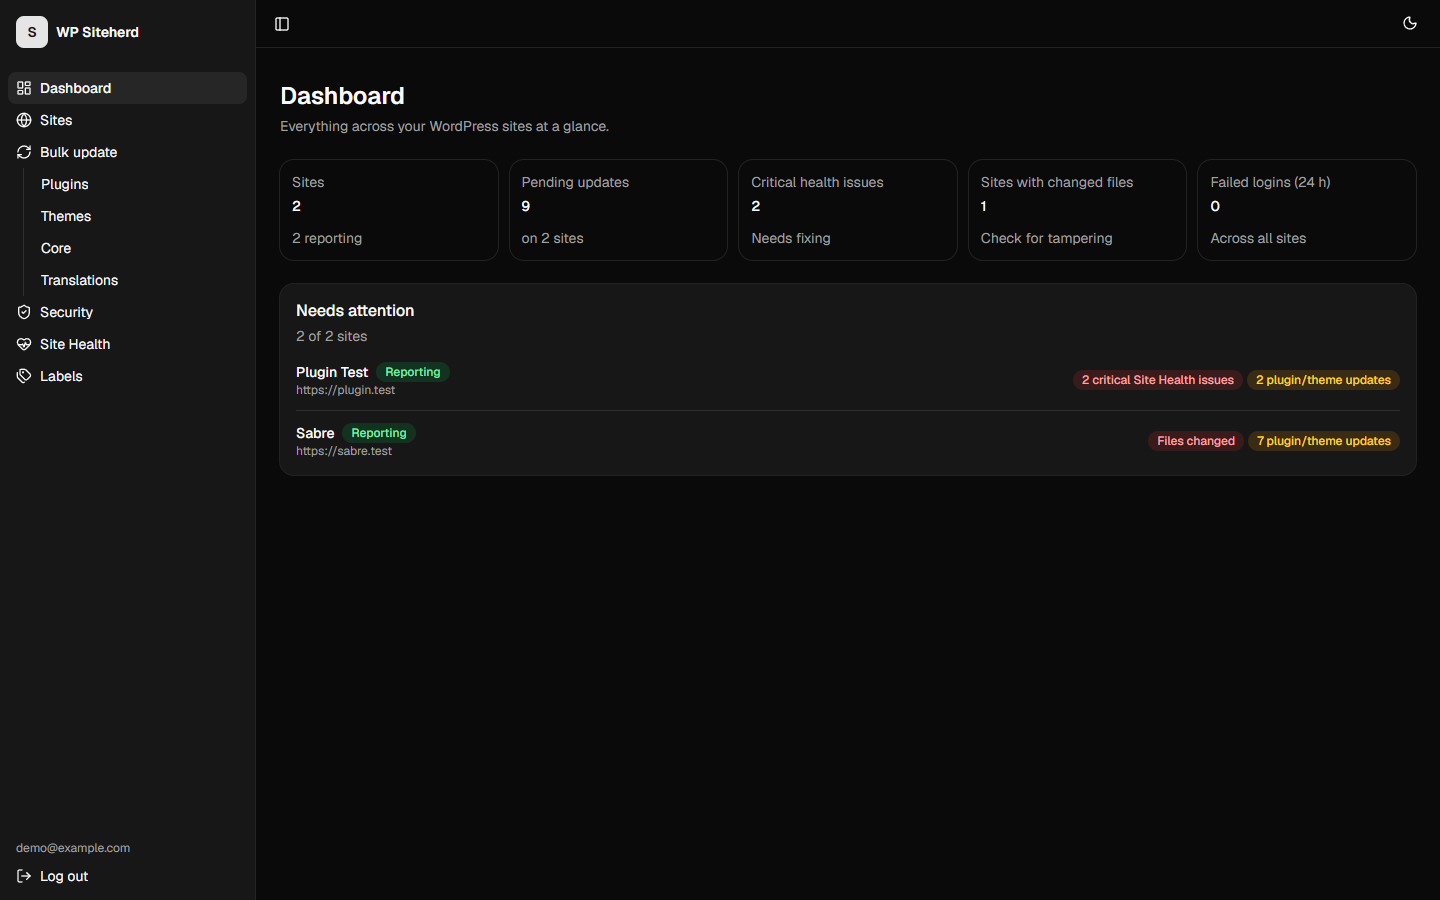
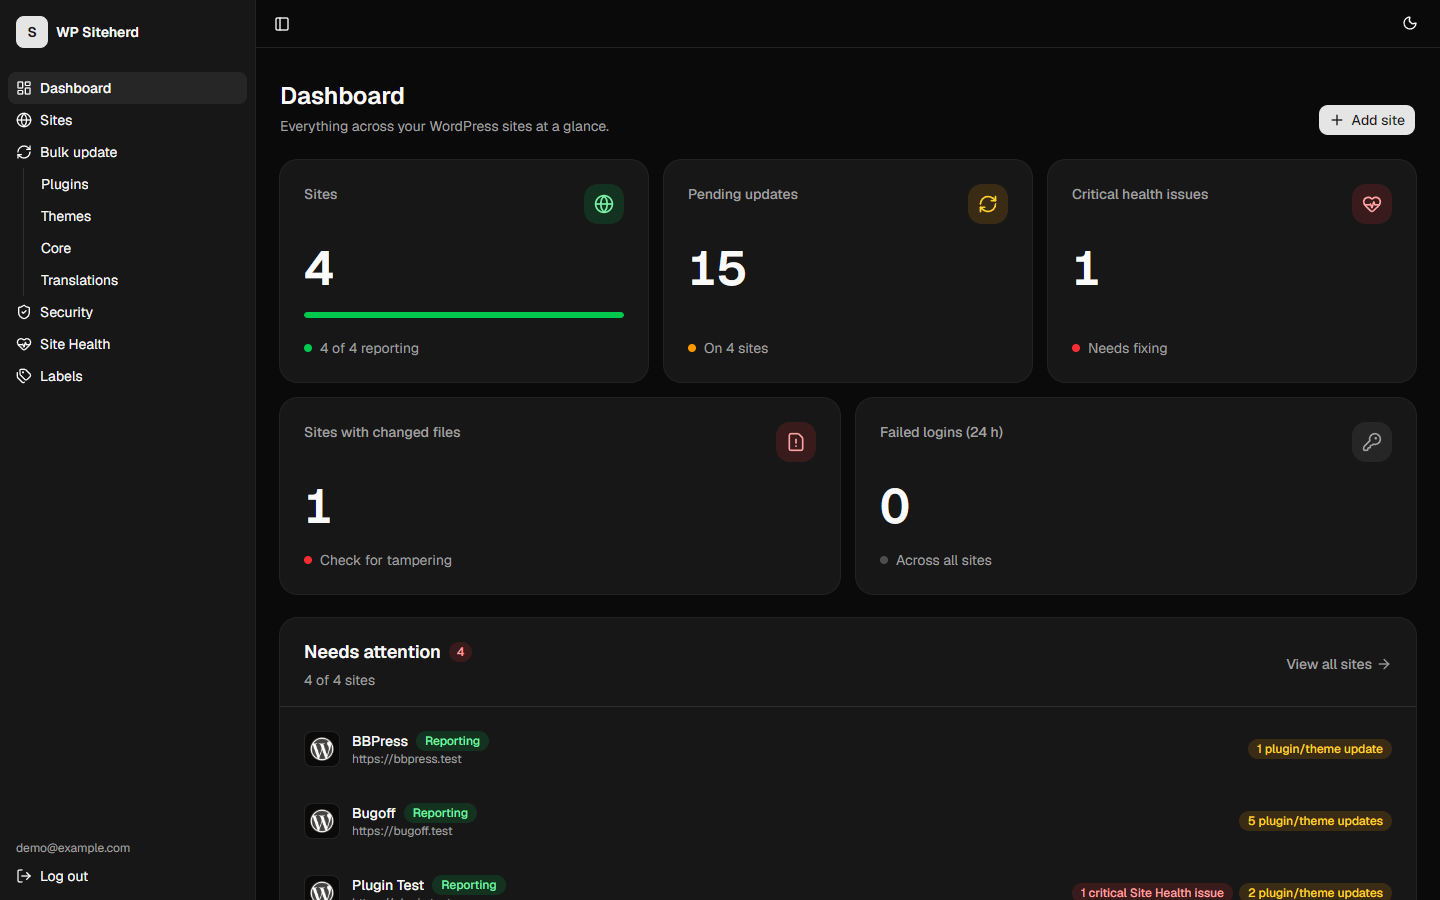
Redesign dashboard: larger stat cards with status colors, richer attention list

diff --git a/src/app/(app)/page.tsx b/src/app/(app)/page.tsx
@@ -1,37 +1,133 @@
+import { ArrowRight, CircleCheck, FileWarning, Globe, HeartPulse, KeyRound, Plus, RefreshCw } from "lucide-react";
+import type { LucideIcon } from "lucide-react";
 import Link from "next/link";
 import { Suspense } from "react";
+import { SiteIcon } from "@/components/item-icons";
 import { EmptyState, PageHeader } from "@/components/page-header";
 import { ToneBadge } from "@/components/report-badges";
 import { StatusBadge } from "@/components/site-status";
 import { buttonVariants } from "@/components/ui/button";
 import { Card, CardContent, CardDescription, CardHeader, CardTitle } from "@/components/ui/card";
+import { Skeleton } from "@/components/ui/skeleton";
 import { attentionReasons, loadFleet } from "@/lib/fleet";
 import { integrityProblems, pendingUpdates } from "@/lib/report";
+import { cn } from "@/lib/utils";
 
 export const metadata = { title: "Dashboard · WP Siteherd" };
+
+// Same threshold as attentionReasons() uses to flag a single site.
+const MANY_FAILED_LOGINS = 20;
+
+// Spans in the 6-column xl grid: three cards on the first row, two wider ones below.
+const SPANS = ["xl:col-span-2", "xl:col-span-2", "xl:col-span-2", "xl:col-span-3", "sm:col-span-2 xl:col-span-3"];
 
 export default function DashboardPage() {
   return (
     <>
-      <PageHeader title="Dashboard" description="Everything across your WordPress sites at a glance." />
-      <Suspense fallback={<p className="mt-8 text-sm text-muted-foreground">Loading…</p>}>
+      <PageHeader
+        title="Dashboard"
+        description="Everything across your WordPress sites at a glance."
+        action={
+          <Link href="/sites/new" className={buttonVariants()}>
+            <Plus />
+            Add site
+          </Link>
+        }
+      />
+      <Suspense fallback={<OverviewSkeleton />}>
         <Overview />
       </Suspense>
     </>
   );
 }
 
-function Stat({ label, value, href, hint }: { label: string; value: number; href: string; hint: React.ReactNode }) {
+type Tone = "good" | "warn" | "bad" | "neutral";
+
+const toneStyles: Record<Tone, { chip: string; dot: string }> = {
+  good: {
+    chip: "bg-green-100 text-green-700 dark:bg-green-500/15 dark:text-green-300",
+    dot: "bg-green-500",
+  },
+  warn: {
+    chip: "bg-amber-100 text-amber-700 dark:bg-amber-500/15 dark:text-amber-300",
+    dot: "bg-amber-500",
+  },
+  bad: {
+    chip: "bg-red-100 text-red-700 dark:bg-red-500/15 dark:text-red-300",
+    dot: "bg-red-500",
+  },
+  neutral: { chip: "bg-muted text-muted-foreground", dot: "bg-muted-foreground/40" },
+};
+
+function Stat({
+  label,
+  value,
+  href,
+  hint,
+  icon: Icon,
+  tone,
+  className,
+  children,
+}: {
+  label: string;
+  value: number;
+  href: string;
+  hint: React.ReactNode;
+  icon: LucideIcon;
+  tone: Tone;
+  className?: string;
+  children?: React.ReactNode;
+}) {
+  const styles = toneStyles[tone];
   return (
-    <Link href={href} className="rounded-xl transition-colors hover:bg-muted/50">
-      <Card size="sm" className="h-full bg-transparent">
-        <CardHeader>
-          <CardDescription>{label}</CardDescription>
-          <CardTitle className="text-3xl">{value}</CardTitle>
-        </CardHeader>
-        <CardContent className="text-sm text-muted-foreground">{hint}</CardContent>
-      </Card>
+    <Link
+      href={href}
+      className={cn(
+        "group flex flex-col gap-5 rounded-2xl bg-card p-6 text-card-foreground ring-1 ring-foreground/10 transition-all",
+        "hover:-translate-y-0.5 hover:shadow-lg hover:ring-foreground/20 focus-visible:ring-2 focus-visible:ring-ring focus-visible:outline-none",
+        className,
+      )}
+    >
+      <div className="flex items-start justify-between gap-3">
+        <span className="text-sm font-medium text-muted-foreground">{label}</span>
+        <span className={cn("flex size-10 shrink-0 items-center justify-center rounded-xl", styles.chip)}>
+          <Icon className="size-5" />
+        </span>
+      </div>
+      <div className="text-4xl font-semibold tracking-tight tabular-nums md:text-5xl">{value}</div>
+      {children}
+      <div className="mt-auto flex items-center justify-between gap-3 text-sm text-muted-foreground">
+        <span className="flex items-center gap-2">
+          <span className={cn("size-2 rounded-full", styles.dot)} />
+          {hint}
+        </span>
+        <ArrowRight className="size-4 -translate-x-1 opacity-0 transition-all group-hover:translate-x-0 group-hover:opacity-100" />
+      </div>
     </Link>
+  );
+}
+
+function StatGrid({ children }: { children: React.ReactNode }) {
+  return <div className="grid grid-cols-1 gap-4 sm:grid-cols-2 xl:grid-cols-6">{children}</div>;
+}
+
+function OverviewSkeleton() {
+  return (
+    <div className="mt-6 grid gap-6">
+      <StatGrid>
+        {SPANS.map((span) => (
+          <div key={span} className={cn("flex flex-col gap-5 rounded-2xl p-6 ring-1 ring-foreground/10", span)}>
+            <div className="flex justify-between">
+              <Skeleton className="h-4 w-28" />
+              <Skeleton className="size-10 rounded-xl" />
+            </div>
+            <Skeleton className="h-12 w-20" />
+            <Skeleton className="h-4 w-32" />
+          </div>
+        ))}
+      </StatGrid>
+      <Skeleton className="h-48 rounded-2xl" />
+    </div>
   );
 }
 
@@ -64,59 +160,129 @@ async function Overview() {
 
   return (
     <div className="mt-6 grid gap-6">
-      <div className="grid grid-cols-2 gap-3 md:grid-cols-3 xl:grid-cols-5">
-        <Stat label="Sites" value={sites.length} href="/sites" hint={`${reporting} reporting`} />
+      <StatGrid>
+        <Stat
+          label="Sites"
+          value={sites.length}
+          href="/sites"
+          icon={Globe}
+          tone={reporting === sites.length ? "good" : "warn"}
+          hint={`${reporting} of ${sites.length} reporting`}
+          className={SPANS[0]}
+        >
+          <div className="h-1.5 overflow-hidden rounded-full bg-muted">
+            <div className="h-full rounded-full bg-green-500" style={{ width: `${(reporting / sites.length) * 100}%` }} />
+          </div>
+        </Stat>
         <Stat
           label="Pending updates"
           value={updates}
           href="/updates/plugins"
-          hint={sitesWithUpdates ? `on ${sitesWithUpdates} ${sitesWithUpdates === 1 ? "site" : "sites"}` : "All up to date"}
+          icon={RefreshCw}
+          tone={updates > 0 ? "warn" : "good"}
+          hint={sitesWithUpdates ? `On ${sitesWithUpdates} ${sitesWithUpdates === 1 ? "site" : "sites"}` : "All up to date"}
+          className={SPANS[1]}
         />
-        <Stat label="Critical health issues" value={critical} href="/health" hint={critical ? "Needs fixing" : "None"} />
+        <Stat
+          label="Critical health issues"
+          value={critical}
+          href="/health"
+          icon={HeartPulse}
+          tone={critical > 0 ? "bad" : "good"}
+          hint={critical ? "Needs fixing" : "None"}
+          className={SPANS[2]}
+        />
         <Stat
           label="Sites with changed files"
           value={changedFiles}
           href="/security"
-          hint={changedFiles ? "Check for tampering" : "Files match"}
+          icon={FileWarning}
+          tone={changedFiles > 0 ? "bad" : "good"}
+          hint={changedFiles ? "Check for tampering" : "Files match wordpress.org"}
+          className={SPANS[3]}
         />
-        <Stat label="Failed logins (24 h)" value={failedLogins} href="/security" hint="Across all sites" />
-      </div>
+        <Stat
+          label="Failed logins (24 h)"
+          value={failedLogins}
+          href="/security"
+          icon={KeyRound}
+          tone={failedLogins >= MANY_FAILED_LOGINS ? "warn" : "neutral"}
+          hint="Across all sites"
+          className={SPANS[4]}
+        />
+      </StatGrid>
 
-      <Card>
-        <CardHeader>
-          <CardTitle>Needs attention</CardTitle>
-          <CardDescription>
-            {attention.length === 0
-              ? "Nothing to do. Every site is reporting, updated and healthy."
-              : `${attention.length} of ${sites.length} ${sites.length === 1 ? "site" : "sites"}`}
-          </CardDescription>
+      <Card className="gap-0 rounded-2xl py-0">
+        <CardHeader className="flex flex-wrap items-center justify-between gap-3 border-b px-6 py-5">
+          <div className="grid gap-1">
+            <CardTitle className="flex items-center gap-2 text-lg font-semibold">
+              Needs attention
+              {attention.length > 0 && (
+                <span
+                  className={cn(
+                    "rounded-full px-2 py-0.5 text-xs font-medium tabular-nums",
+                    attention.some((a) => a.reasons.some((r) => r.severity === "bad"))
+                      ? toneStyles.bad.chip
+                      : toneStyles.warn.chip,
+                  )}
+                >
+                  {attention.length}
+                </span>
+              )}
+            </CardTitle>
+            <CardDescription>
+              {attention.length === 0
+                ? "Every site is reporting, updated and healthy."
+                : `${attention.length} of ${sites.length} ${sites.length === 1 ? "site" : "sites"}`}
+            </CardDescription>
+          </div>
+          <Link
+            href="/sites"
+            className="flex items-center gap-1 text-sm font-medium text-muted-foreground hover:text-foreground"
+          >
+            View all sites
+            <ArrowRight className="size-4" />
+          </Link>
         </CardHeader>
-        {attention.length > 0 && (
-          <CardContent>
-            <ul className="divide-y">
+        <CardContent className="p-2">
+          {attention.length === 0 ? (
+            <div className="flex flex-col items-center gap-3 py-12 text-center">
+              <span className="flex size-12 items-center justify-center rounded-full bg-green-100 text-green-700 dark:bg-green-500/15 dark:text-green-300">
+                <CircleCheck className="size-6" />
+              </span>
+              <p className="font-medium">Nothing to do</p>
+            </div>
+          ) : (
+            <ul className="grid gap-1">
               {attention.map(({ site, reasons }) => (
-                <li key={site.id} className="flex flex-wrap items-center justify-between gap-3 py-3 first:pt-0 last:pb-0">
-                  <div>
-                    <div className="flex items-center gap-2">
-                      <Link href={`/sites/${site.id}`} className="font-medium hover:underline">
-                        {site.name}
-                      </Link>
-                      <StatusBadge state={site.state} />
+                <li key={site.id}>
+                  <Link
+                    href={`/sites/${site.id}`}
+                    className="flex flex-wrap items-center justify-between gap-3 rounded-xl px-4 py-4 transition-colors hover:bg-muted/50"
+                  >
+                    <div className="flex min-w-0 items-center gap-3">
+                      <SiteIcon icon={site.report?.site_icon ?? null} url={site.url} />
+                      <div className="min-w-0">
+                        <div className="flex items-center gap-2">
+                          <span className="truncate font-medium">{site.name}</span>
+                          <StatusBadge state={site.state} />
+                        </div>
+                        <div className="truncate text-xs text-muted-foreground">{site.url}</div>
+                      </div>
                     </div>
-                    <div className="text-xs text-muted-foreground">{site.url}</div>
-                  </div>
-                  <div className="flex flex-wrap gap-1">
-                    {reasons.map((reason) => (
-                      <ToneBadge key={reason.text} t={reason.severity}>
-                        {reason.text}
-                      </ToneBadge>
-                    ))}
-                  </div>
+                    <div className="flex flex-wrap gap-1.5">
+                      {reasons.map((reason) => (
+                        <ToneBadge key={reason.text} t={reason.severity}>
+                          {reason.text}
+                        </ToneBadge>
+                      ))}
+                    </div>
+                  </Link>
                 </li>
               ))}
             </ul>
-          </CardContent>
-        )}
+          )}
+        </CardContent>
       </Card>
     </div>
   );
